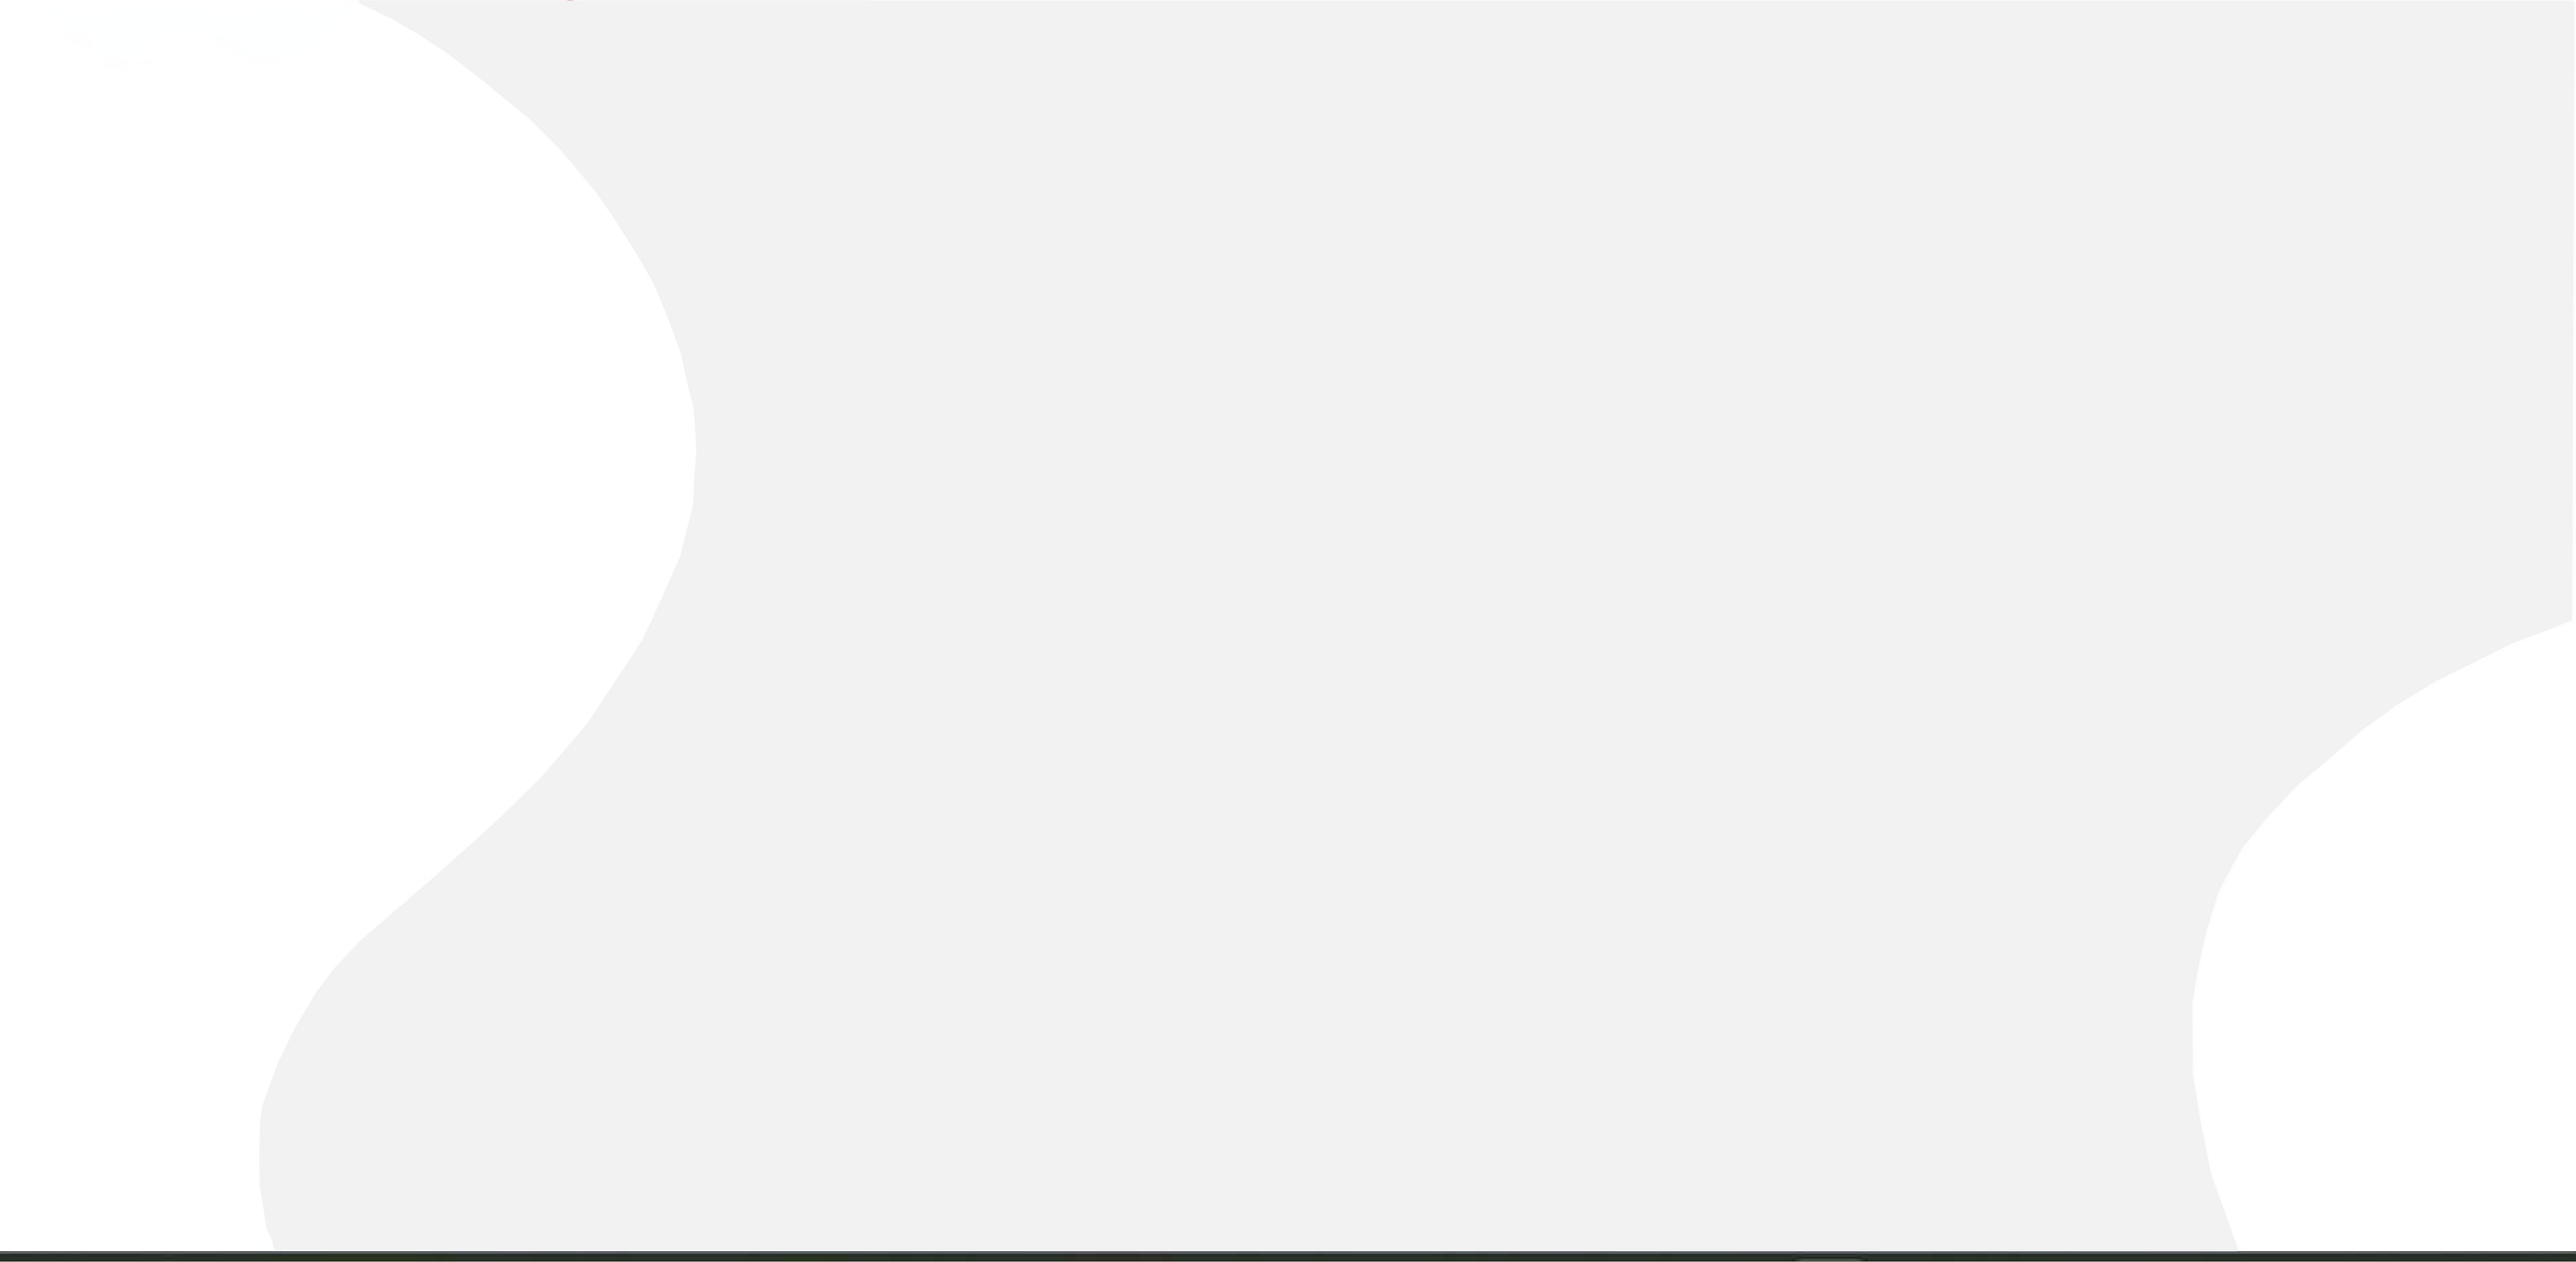
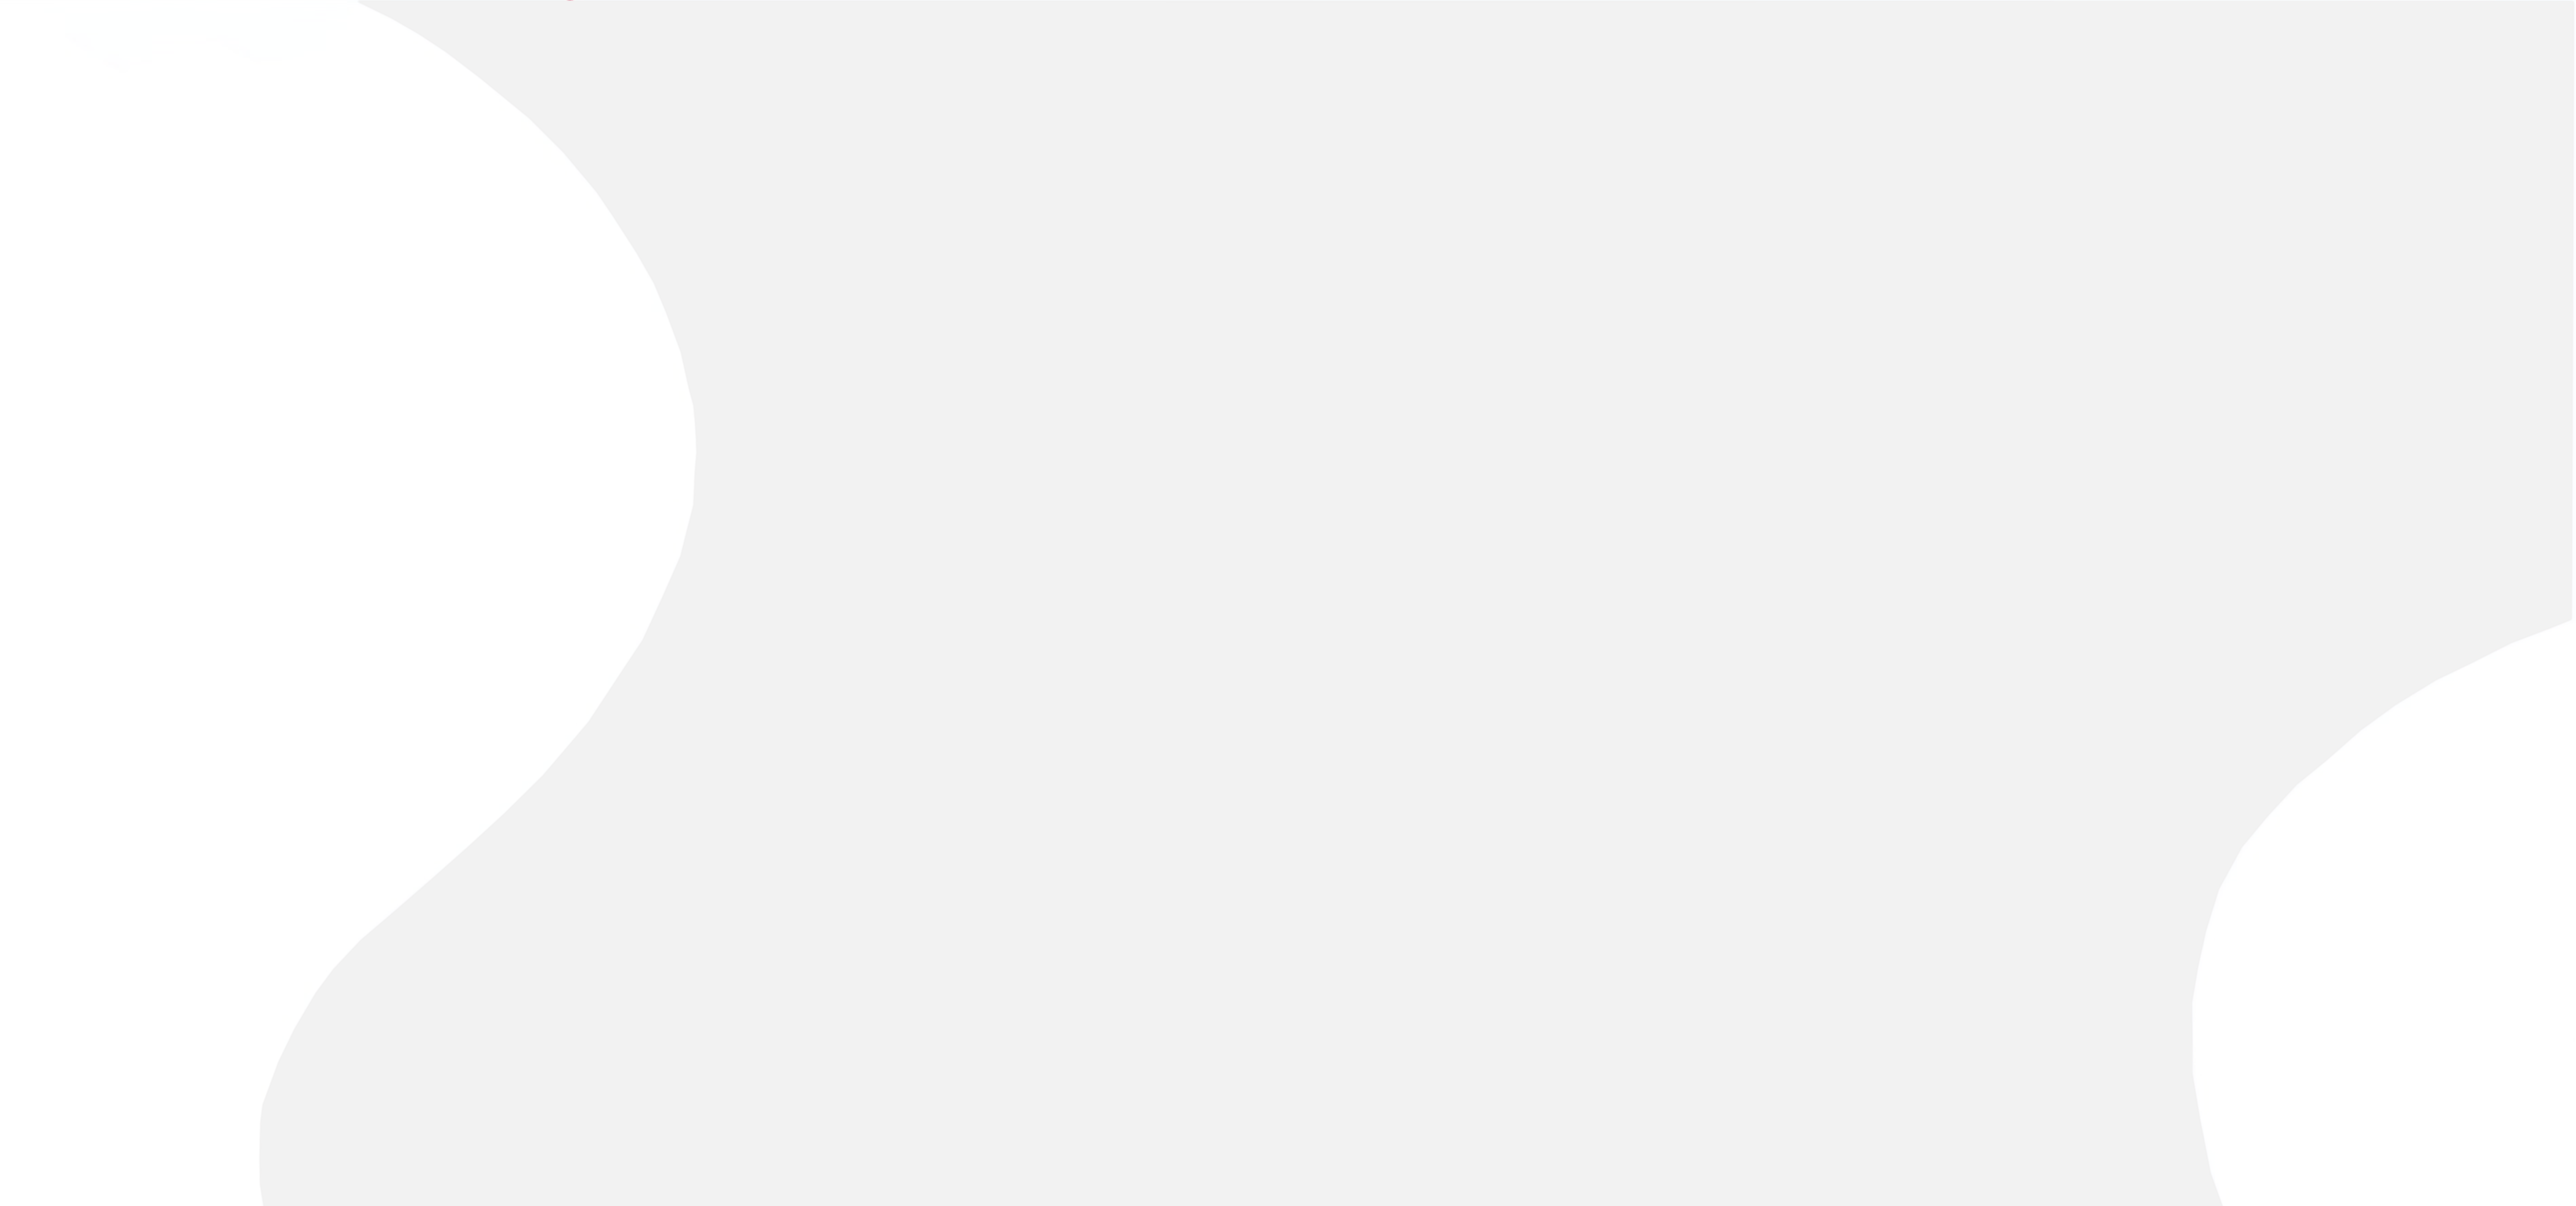
changed background

Changed region(s): [[0.0, 0.9928, 1.0, 1.0]]

diff --git a/src/components/landingpage/landingPage.jsx b/src/components/landingpage/landingPage.jsx
@@ -2,44 +2,56 @@ import React from "react";
 import "./landingPage.css";
 import { Link } from "react-router-dom";
 import nxGenLogo from "../../assets/nxGenLogo.svg"
+import CurvedArrow from "../../assets/curvedArrow.png"
 function LandingPage() {
   return (
     <div class="px-3">
-      <nav class="flex justify-center  md:justify-start pt-3">
-      
-          <img
-            class="mx-10 mb-3 h-16"
-            src={nxGenLogo}
-            alt="logo.svg"
-          />
-        </nav>
-      <div class="max-w-[95%] min-h-fit bg-[#c0c0c065] rounded md:rounded-full m-auto -mt-20">
-        
+      <nav class="flex justify-center  md:justify-start pt-3 sticky top-0">
+
+        <img
+          class="mx-10 mb-3 h-16"
+          src={nxGenLogo}
+          alt="logo.svg"
+        />
+      </nav>
+      <div class="max-w-[95%] min-h-fit  rounded md:rounded-full m-auto -mt-20">
+
         <div class="font-Helvectica text-center md:max-w-[450px] m-auto ">
           <p class=" font-bold text-[maroon] pt-36 text-lg md:text-3xl">
-            "Assess Your Leadership"
+            Assess Your Leadership
           </p>
           <p class=" mt-1 font-bold text-black text-lg md:text-3xl">
             4 Questions to assess your leadership capital.
           </p>
-          <p class=" font-[500px] mt-32 text-xl md:text-3xl">
+          {/* <div className="grid">
+
+            <img
+              width="35px"
+              color="#800000"
+              src={CurvedArrow}
+              alt="logo.svg"
+              className="m-auto md:ml-4 flex justify-center"
+            />
+            
+          </div> */}
+          <p class=" font-[500px] font-semi-bold  mt-32 text-xl md:text-3xl">
             Where are you in your director journey right now?
           </p>
         </div>
-        
+
         <div class="flex flex-col mt-5 mx-[4.5rem] pb-20 flex-wrap content-around md:flex md:flex-row md:justify-center md:space-x-10 md:mx-auto ">
           <div class=" h-32 w-32 md:h-36 md:w-36 mt-7  rounded-full text-center bg-[#800000]  drop-shadow-xl ">
             <Link to={"/assess"}>
               <div class=" py-[3.3rem] md:pt-[4rem] px-5 text-white">Exploring</div>
             </Link>
           </div>
-         
+
           <div class=" h-32 w-32 md:h-36 md:w-36 mt-7  rounded-full text-center bg-[#800000]  drop-shadow-xl ">
             <Link to={"/assess"}>
               <div class=" pt-11 md:py-[3.3rem] px-6 text-white">Aspiring Director</div>
             </Link>
           </div>
-         
+
           <div class=" h-32 w-32 md:h-36 md:w-36 mt-7 rounded-full text-center bg-[#800000]  drop-shadow-xl ">
             <Link to={"/assess"}>
               <div class=" pt-11 md:py-[3.3rem] px-6 text-white">Existing Director</div>

diff --git a/src/components/questionPage/questionPage.jsx b/src/components/questionPage/questionPage.jsx
@@ -81,7 +81,7 @@ export default function QuestionPage(props) {
     return (
         <div >
             <div className="px-3">
-                <div className="max-w-[95%] max-h-fit bg-[#c0c0c065] rounded md:rounded-full m-auto md:my-9  md:max-w-[85%]">
+                <div className="max-w-[95%] max-h-fit rounded md:rounded-full m-auto md:my-9  md:max-w-[85%]">
                     <div className='qCard'>
 
 
@@ -110,7 +110,7 @@ export default function QuestionPage(props) {
                                                         color="#800000"
                                                         src={FilledCircle}
                                                         alt="logo.svg"
-                                                        className="my-20 ml-1 md:ml-2"
+                                                        className="my-20 ml-1 md:ml-4"
                                                     />
                                                 </>)
                                             }
@@ -122,7 +122,7 @@ export default function QuestionPage(props) {
                                                             color="#800000"
                                                             src={EmptyCirle}
                                                             alt="radiusLoader.svg"
-                                                            className="my-20 ml-1 md:ml-2"
+                                                            className="my-20 ml-1 md:ml-4"
                                                         />
                                                     </>
                                                 )

diff --git a/src/components/endPage/endPage.jsx b/src/components/endPage/endPage.jsx
@@ -26,7 +26,7 @@ function EndPage({handleSubmit,name,setName,email,setEmail}) {
                   setEmail(e.target.value);
                 }}/>
 
-                <button className="w-[180px] h-[50px] mx-auto border-4 border-[#c0c0c065] bg-[#800000d0] rounded-xl hover:bg-[#ffffffc4] text-white md:w-[200px] md:h-[60px]" onClick={handleSubmit}>
+                <button className="w-[180px] h-[50px] mx-auto border-4 border-[#c0c0c065] bg-[#800000d0] rounded-xl  text-white md:w-[200px] md:h-[60px]" onClick={handleSubmit}>
                     Show Me My Results!
                 </button>
                 

diff --git a/src/index.css b/src/index.css
@@ -15,6 +15,7 @@
 }
 
 html{
-    /* background-image: url('./assets/backgroundGrey.png'); */
-    
+    background-image: url('./assets/backgroundGrey.png');
+    background-attachment: fixed;
+    background-size: cover;
 }
